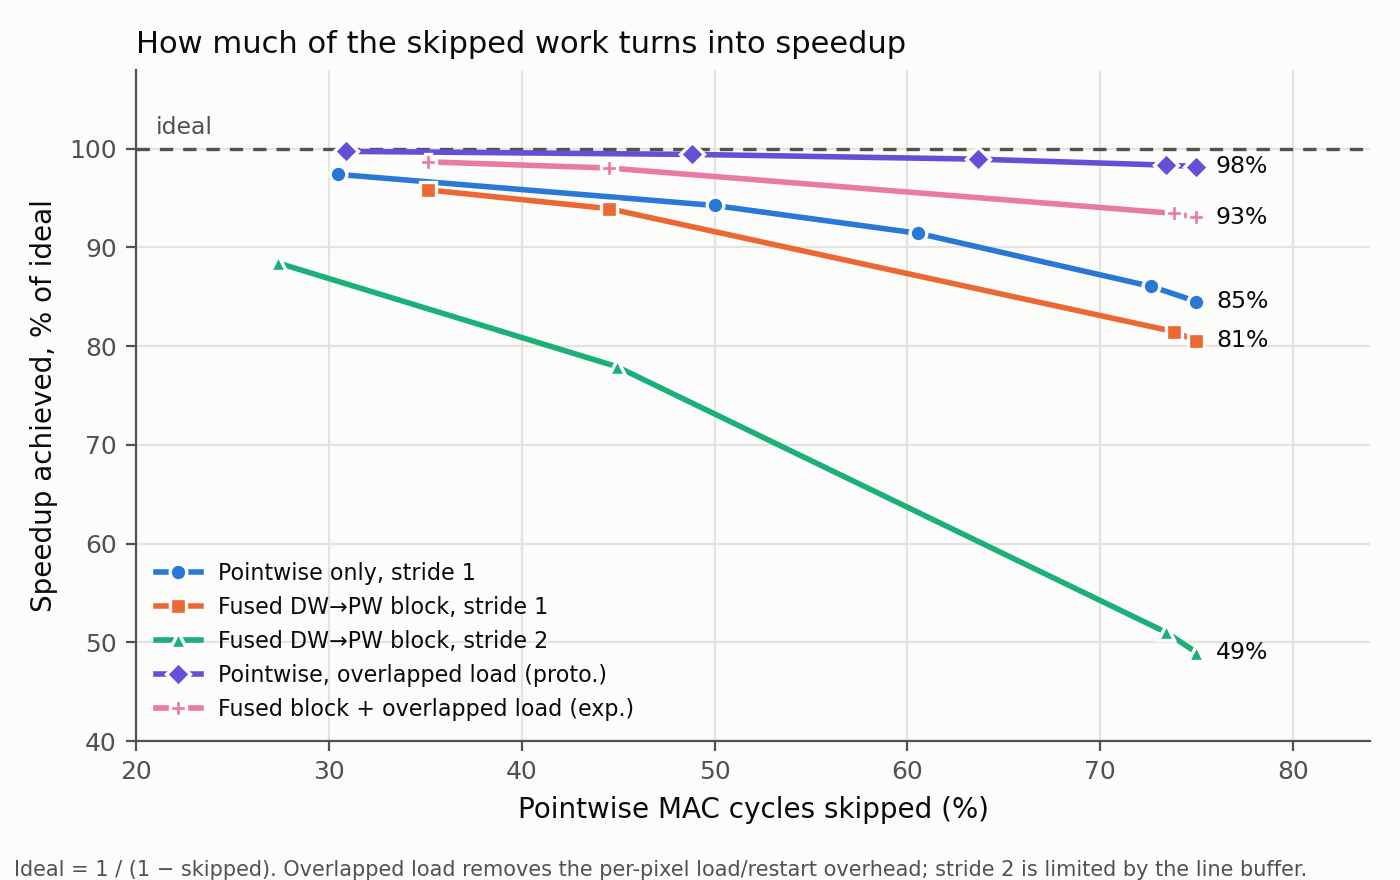
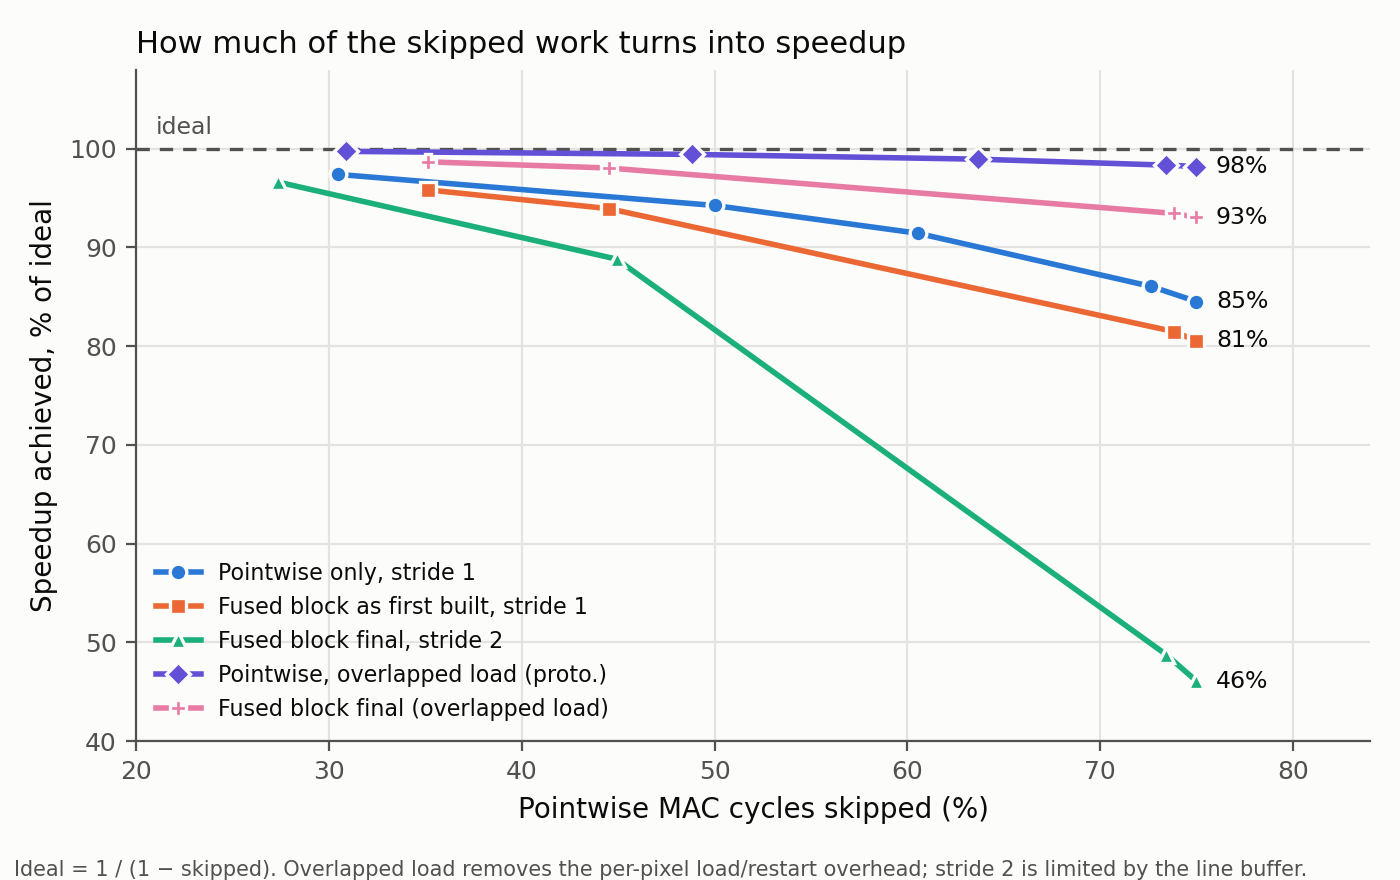
Finalize driver guide and results for the final dsc_top and KR260 bitstream
- DRIVER_GUIDE.md: register map is now final: one AXI-Lite bank at
  0xA000_0000 (in 0x10, params 0x1c, out 0x28, stride 0x34, skip_en 0x3c,
  sched_len 0x44/0x48), from the generated header in #4. Points to
  dsc_bringup.cpp as the reference driver; final latency and clock.
- results/: final #2 (a50c1b2) co-sim rows (dsc_top_final) incl. the
  s_dw depth-16 stride-2 gains (-4% to -15% cycles), post-route 4.329 ns,
  power, and the full-system KR260 bitstream (WNS +0.677 ns at 200 MHz,
  4.3% LUT). Plots now use the final design's data.

diff --git a/hls/compute/results/make_plots.py b/hls/compute/results/make_plots.py
@@ -23,10 +23,10 @@ SURFACE, TEXT, TEXT2, GRID = "#fcfcfb", "#0b0b0b", "#52514e", "#e4e3df"
 SERIES = [
     # (kernel, stride, label, color, marker)
     ("pointwise_skip_top",      1, "Pointwise only, stride 1",            "#2a78d6", "o"),
-    ("dsc_top",                 1, "Fused DW→PW block, stride 1",          "#eb6834", "s"),
-    ("dsc_top",                 2, "Fused DW→PW block, stride 2",          "#1baf7a", "^"),
+    ("dsc_top",                 1, "Fused block as first built, stride 1", "#eb6834", "s"),
+    ("dsc_top_final",           2, "Fused block final, stride 2",          "#1baf7a", "^"),
     ("pointwise_skip_pipe_top", 1, "Pointwise, overlapped load (proto.)",  "#6250d6", "D"),
-    ("dsc_top+bram_lat2+overlap", 1, "Fused block + overlapped load (exp.)", "#e87ba4", "P"),
+    ("dsc_top_final",           1, "Fused block final (overlapped load)",  "#e87ba4", "P"),
 ]
 
 
@@ -71,7 +71,7 @@ def fig_speedup(rows):
     cut above the convex ideal curve and misread as better-than-ideal)."""
     panels = [
         ("Standalone pointwise kernel (stride 1)", ["pointwise_skip_top", "pointwise_skip_pipe_top"]),
-        ("Fused DW→PW block (dsc_top)", ["dsc_top", "dsc_top+bram_lat2+overlap"]),
+        ("Fused DW→PW block (dsc_top)", ["dsc_top", "dsc_top_final"]),
     ]
     fig, axes = plt.subplots(1, 2, figsize=(10.0, 4.4), dpi=200, sharey=True)
     fig.patch.set_facecolor(SURFACE)
@@ -189,8 +189,8 @@ def fig_energy(rows):
     with open(os.path.join(HERE, "power_results.csv")) as f:
         for r in csv.DictReader(line for line in f if not line.startswith("#")):
             pw[(r["design"], r["variant"])] = (float(r["dynamic_w"]), float(r["device_static_w"]))
-    dyn_w, stat_w = pw[("dsc_top", "bram_lat2+overlap")]
-    data = sorted((r for r in rows if r["kernel"] == "dsc_top+bram_lat2+overlap" and r["stride"] == 1
+    dyn_w, stat_w = pw[("dsc_top", "final_a50c1b2")]
+    data = sorted((r for r in rows if r["kernel"] == "dsc_top_final" and r["stride"] == 1
                    and not r["case"].startswith("50% unstructured")), key=lambda r: r["block_prune_pct"])
     labels = ["dense" if r["block_prune_pct"] == 0 else
               ("all zero" if r["block_prune_pct"] == 100 else f"{r['block_prune_pct']}%") for r in data]

diff --git a/hls/compute/DRIVER_GUIDE.md b/hls/compute/DRIVER_GUIDE.md
@@ -1,13 +1,17 @@
 # Driving the accelerator: notes for the ARM driver
 
 **For Kevin (Week 9 driver), from the compute side.** This covers what the registers
-*mean* and how to use them: skipping, `sched_len`, switching weight sets, timing. The
-top-level kernel `dsc_top` is Hank's (PR #2), and the register **addresses below are
-provisional**:
-- the review on #2 asks to move the buffer addresses into the same register bank as
-  everything else, which will change them;
-- once #2 merges, take every offset from the generated `xdsc_top_hw.h`, never from this
-  file.
+*mean* and how to use them: skipping, `sched_len`, switching weight sets, timing.
+
+The register map below is **final**. It was generated by Vitis for `dsc_top` at PR #2
+`a50c1b2` and confirmed in the KR260 bitstream build (PR #4). The generated header is
+committed as `board/sw/xdsc_top_hw.h` (#4), and `board/sw/dsc_regs.h` checks its offsets
+against it at compile time. If `dsc_top`'s interface ever changes, take the offsets from
+a newly generated header, not from this file.
+
+**Working reference driver:** Hank's `board/sw/dsc_bringup.cpp` (#4) already does the
+device access (UIO or `/dev/mem` mapping, u-dma-buf buffers, start/done/IRQ), the
+packing, and checking results against the golden model. Start from it.
 
 ## What one call does
 
@@ -21,11 +25,9 @@ One call to `dsc_top` runs one complete depthwise-separable block:
 Weights are reloaded on **every** call, so each call can use a different weight set.
 The layer shape is fixed at compile time (currently 32×16×16 → 64, `dsc_types.h`).
 
-## Registers (provisional map, PR #2 @ `ecf8a64`)
+## Registers
 
-Today's IP has **two** AXI-Lite slaves; this is expected to become one.
-
-**`control`:**
+**One AXI-Lite slave, `s_axi_control`, at `0xA000_0000` (64 KB) in the KR260 block design.**
 
 | Offset | Name | Access | Meaning |
 |---|---|---|---|
@@ -33,18 +35,15 @@ Today's IP has **two** AXI-Lite slaves; this is expected to become one.
 | 0x04 | `GIE` | R/W | bit 0: global interrupt enable |
 | 0x08 | `IER` | R/W | bit 0: interrupt on `ap_done`; bit 1: on `ap_ready` |
 | 0x0c | `ISR` | R/TOW | bit 0 `ap_done`, bit 1 `ap_ready`; write 1 to clear |
-| 0x10 | `stride` | R/W | 2 = stride 2; **anything else runs as stride 1** |
-| 0x18 | `skip_en` | R/W | bit 0: 1 = zero-block skipping, 0 = dense bypass |
-| 0x20 | `sched_len` | R | pointwise cycles per pixel for the weights just loaded (see below) |
-| 0x24 | `sched_len` ctrl | R | bit 0 `sched_len_ap_vld`: **clears on read** |
+| 0x10 / 0x14 | `in` | R/W | input frame address, 64-bit, low word first |
+| 0x1c / 0x20 | `params` | R/W | parameter blob address, 64-bit |
+| 0x28 / 0x2c | `out` | R/W | output frame address, 64-bit |
+| 0x34 | `stride` | R/W | 2 = stride 2; **anything else runs as stride 1** |
+| 0x3c | `skip_en` | R/W | bit 0: 1 = zero-block skipping, 0 = dense bypass |
+| 0x44 | `sched_len` | R | pointwise cycles per pixel for the weights just loaded (see below) |
+| 0x48 | `sched_len` ctrl | R | bit 0 `sched_len_ap_vld`: **clears on read** |
 
-**`control_r` (64-bit buffer addresses, low word first):**
-
-| Offset | Name |
-|---|---|
-| 0x10 / 0x14 | `in` (input frame) |
-| 0x1c / 0x20 | `params` (parameter blob) |
-| 0x28 / 0x2c | `out` (output frame) |
+The interrupt (`ap_done`) is wired to `pl_ps_irq0[0]`, GIC SPI 89.
 
 Both "clears on read" bits mean: **read each exactly once per run.** A second read
 returns 0 even though the run finished.
@@ -52,12 +51,12 @@ returns 0 even though the run finished.
 ## Per-call sequence (polling)
 
 ```c
-write64(ctrl_r, IN,     in_phys);       // physically contiguous, non-cacheable buffers
-write64(ctrl_r, PARAMS, params_phys);
-write64(ctrl_r, OUT,    out_phys);
-write32(ctrl, STRIDE,   1);             // or 2
-write32(ctrl, SKIP_EN,  1);             // 0 = dense bypass, same hardware
-write32(ctrl, AP_CTRL,  0x1);           // ap_start
+write64(ctrl, IN,     in_phys);        // physically contiguous, non-cacheable buffers
+write64(ctrl, PARAMS, params_phys);
+write64(ctrl, OUT,    out_phys);
+write32(ctrl, STRIDE,  1);             // or 2
+write32(ctrl, SKIP_EN, 1);             // 0 = dense bypass, same hardware
+write32(ctrl, AP_CTRL, 0x1);           // ap_start
 while (!(read32(ctrl, AP_CTRL) & 0x2)) ;  // ap_done (clears on this read)
 uint32_t len = read32(ctrl, SCHED_LEN);   // valid once ap_done is seen
 ```
@@ -65,9 +64,9 @@ uint32_t len = read32(ctrl, SCHED_LEN);   // valid once ap_done is seen
 - **Use non-cacheable DMA buffers.** The PL's HP ports aren't cache-coherent (Hank's note
   on #2). Cached buffers give stale input or output with no error.
 - **Buffer formats:** `in` and `out` are HWC; `params` is the packed blob described in
-  `hls/top/include/dsc_top.h`. `pack_input` / `pack_params` in
-  `hls/top/tb/tb_dsc_top.cpp` are a C reference for the byte layouts. The test-vector
-  files (`VECTORS.md`) are in PyTorch layout, so the driver packs once at load time.
+  `hls/top/include/dsc_top.h`. `hls/top/include/dsc_pack.h` packs both, and the board
+  software reuses it. The test-vector files (`VECTORS.md`) are in PyTorch layout, so the
+  driver packs once at load time; `dsc_bringup --case DIR` already does this.
 
 ## `skip_en` and `sched_len`
 
@@ -94,25 +93,28 @@ only the `params` address between calls. No reconfiguration and no reset are nee
 This is the actuator the energy-adaptive governor in PR #3 would use, along with
 `skip_en` and call pacing.
 
-## Latency to expect (measured in co-sim, 16×16 stride 1, 200 MHz)
+## Latency to expect
+
+Measured in C/RTL co-sim of the final `dsc_top` (#2 `a50c1b2`), 200 MHz, accelerator
+only. Times on the board will add a few µs of start/finish handshake.
 
 | Configuration | Cycles | Time |
 |---|---|---|
-| `dsc_top` as in #2, dense | 71,282 | 0.36 ms |
-| `dsc_top` as in #2, 90% blocks pruned | 22,898 | 0.11 ms |
-| with the timing fix + overlapped load (proposed for #2), dense | 67,208 | 0.34 ms |
-| with the timing fix + overlapped load (proposed for #2), 90% pruned | 18,824 | 0.09 ms |
+| stride 1 (16×16 out), dense | 67,208 | 0.34 ms |
+| stride 1, 90% blocks pruned | 18,824 | 0.09 ms |
+| stride 2 (8×8 out), dense | 18,061 | 0.09 ms |
+| stride 2, 90% blocks pruned | 9,843 | 0.05 ms |
 
-Per call, latency ≈ (pixels × per-pixel pointwise cost) + a fixed setup of a few hundred
+At stride 1, a call costs about `sched_len × pixels` plus a fixed setup of roughly 830
 cycles (loading weights, building the skip schedule). Stride 2 is capped near 2× by the
 line buffer (see `results/README.md`).
 
-**Clock:** run the PL clock at **200 MHz only with the BRAM timing fix** proposed on #2.
-Without it, `dsc_top` closes at ~181 MHz post-route.
+**Clock:** 200 MHz. The KR260 bitstream meets it with +0.677 ns slack (about 231 MHz
+achievable).
 
 ## Measuring
 
 - **Latency:** time many back-to-back calls and divide. One call is a fraction of a
-  millisecond, close to timer and polling noise.
+  millisecond, close to timer and polling noise. `dsc_bringup --reps N --csv` does this.
 - **Energy:** see PR #3. Measure over seconds of continuous calls and subtract an idle
   baseline, since the INA260 reads whole-SOM power in ~10 mW steps.

diff --git a/hls/compute/results/README.md b/hls/compute/results/README.md
@@ -147,3 +147,41 @@ changes at 200 MHz, stride 1, skipping on (`fig_energy.png`):
   overestimate.
 - Attributing all the device static to the inference assumes the PL would otherwise be
   off; if it stays powered anyway, only the dynamic column counts.
+
+## Final design (PR #2 @ `a50c1b2`) and the KR260 bitstream
+
+Hank merged all three proposed changes into #2: the single register bank, the BRAM
+output register, and the overlapped `pw_stage`. He also deepened `s_dw` from 8 to 16.
+Measured on his branch (rows `dsc_top_final`; `kr260_full_system` in
+`timing_results.csv`):
+
+- **Correctness:** co-sim passes, bit-exact on all 43 calls.
+- **Stride 1:** cycle-for-cycle identical to the experiment above (3.72× with all
+  weights zero, 93% of ideal).
+- **Timing:** `dsc_top` post-route **4.329 ns (~231 MHz)**. 3,698 LUT / 5,292 FF / 19 DSP /
+  30 BRAM18. Estimated power 101 mW dynamic + 289 mW PL static.
+
+**Stride 2 with `s_dw` depth 16** (vs depth 8, same tests):
+
+| Stride 2 | depth 8 | depth 16 | change | speedup now |
+|---|---|---|---|---|
+| dense | 18,880 | 18,061 | −4.3% | 1.00× |
+| 30% blocks pruned | 15,380 | 13,581 | −11.7% | 1.33× |
+| 50% | 13,126 | 11,201 | −14.7% | 1.61× |
+| 90% / all zero | 9,843 / 9,801 | 9,843 / 9,801 | 0 | 1.83× / 1.84× |
+
+- The 90% speedup *ratio* went down (1.92× → 1.83×) only because the dense baseline got
+  faster; the high-sparsity cycle counts are unchanged.
+- Hank's cycle model predicted no change for dense and −5% at 30%, so it needs
+  recalibrating before it's quoted.
+
+**KR260 bitstream** (`board/vivado/build_bd.tcl`, PR #4; PS + SmartConnects + `dsc_top`,
+KR260 board preset):
+
+- **Timing:** all constraints met at 200 MHz, WNS **+0.677 ns** (~231 MHz).
+- **Utilization:** 5,056 LUTs (4.3%), 7,069 FFs (3.0%), 15 BRAM tiles (10.4%).
+- **Register map** (one bank, from the generated `xdsc_top_hw.h`): `in` 0x10,
+  `params` 0x1c, `out` 0x28, `stride` 0x34, `skip_en` 0x3c, `sched_len` 0x44 (valid
+  0x48). It matches `board/sw/dsc_regs.h`'s static_asserts.
+
+**Next is on-board measurement:** latency, FPS and energy with the INA260.
